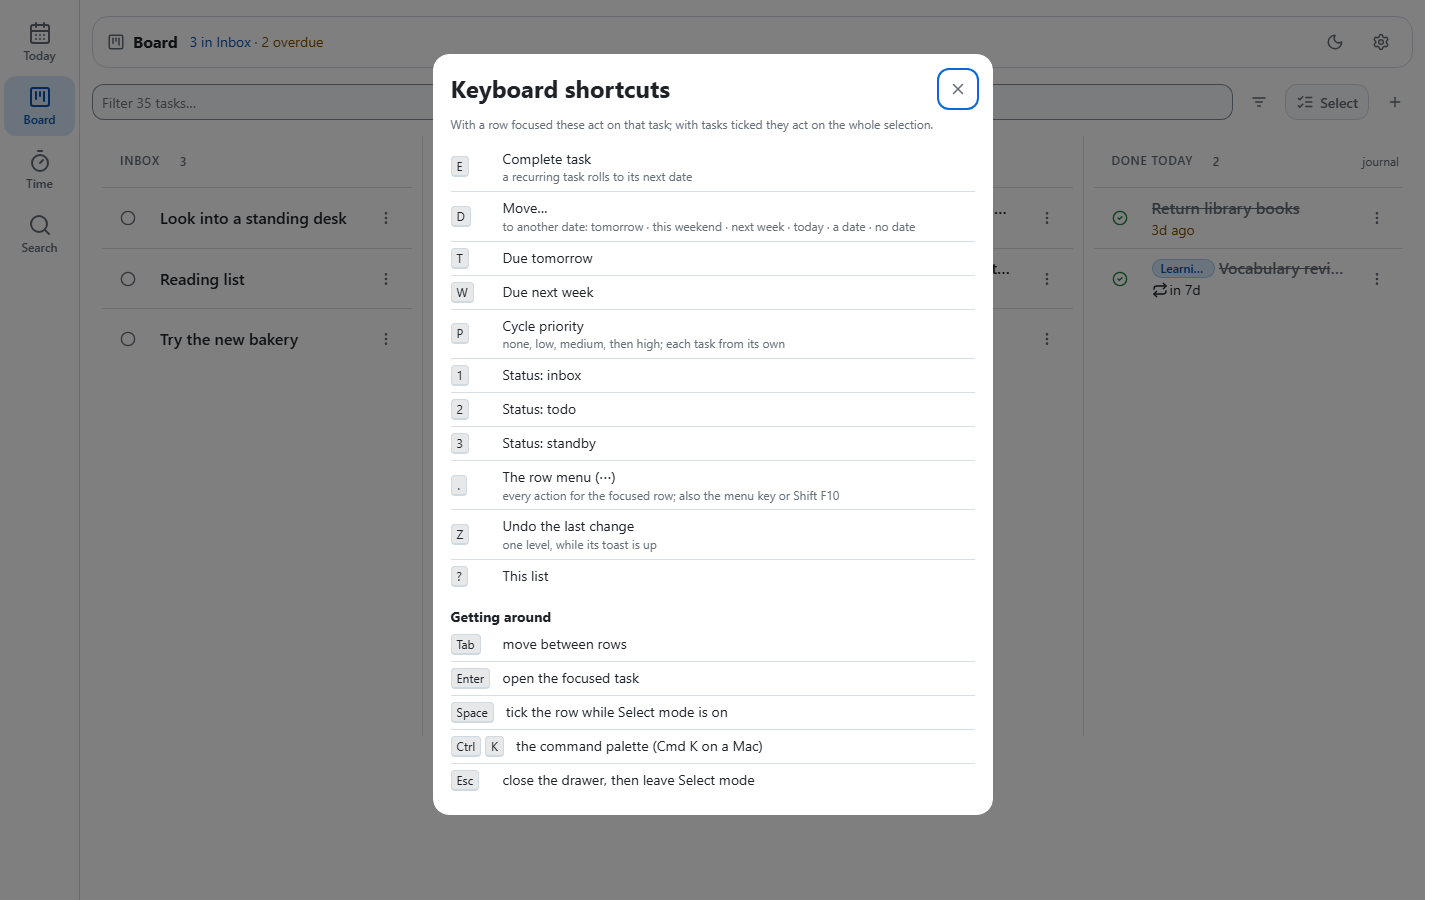
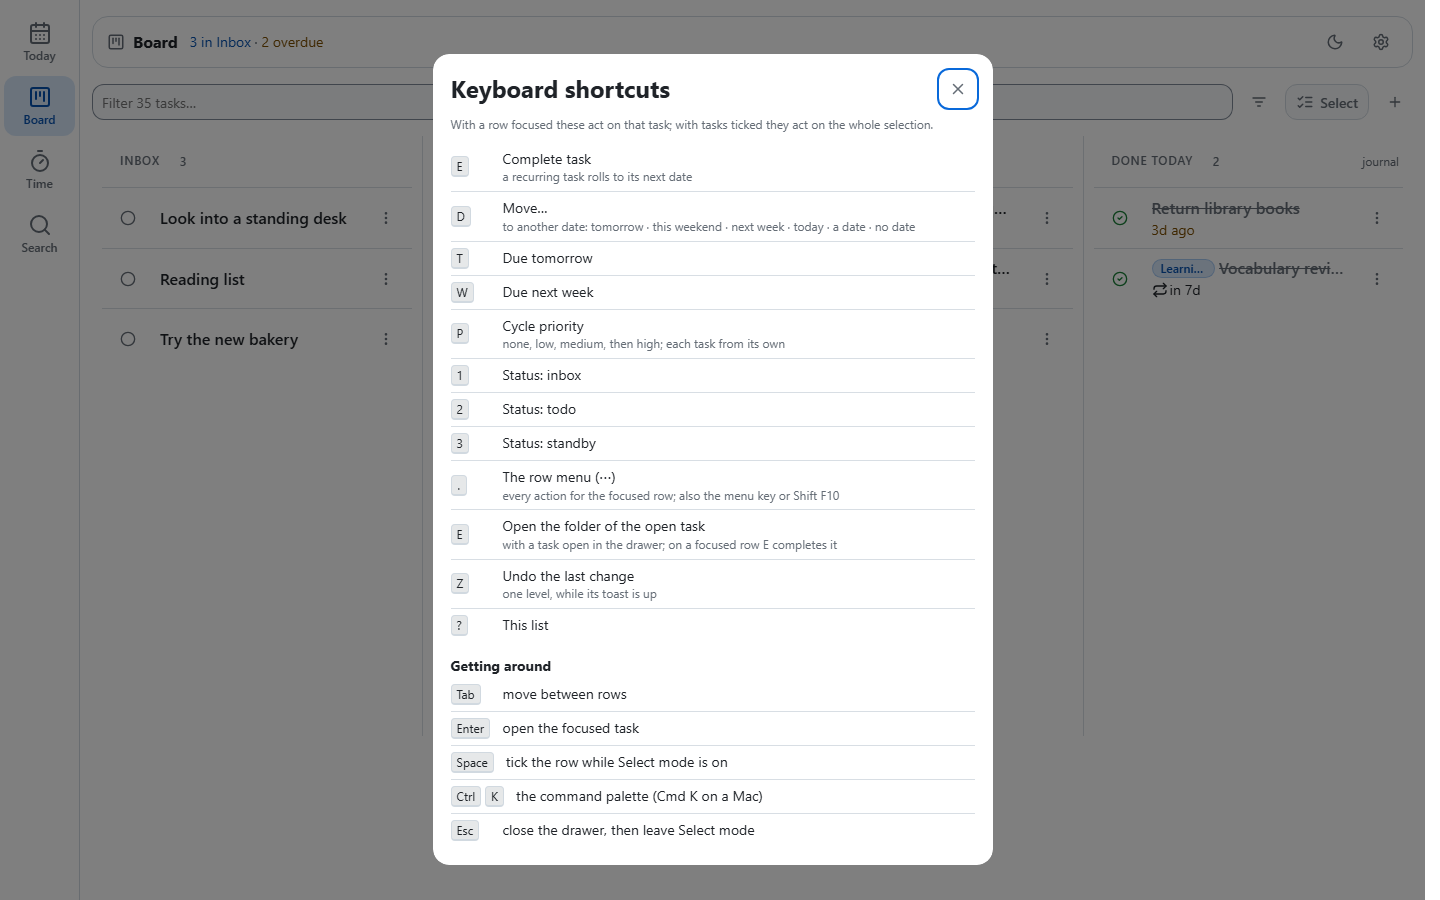
feat: e opens the folder of the task open in the drawer (#776)
- the drawer owns the row keys, so e was unbound there; it now follows the drawer's folder chip, the key folder-explorer uses for the same thing
- a text field still types the letter; the palette command and the shortcuts sheet list the key

Part of #766

Changed region(s): [[0.2812, 0.56, 0.6875, 0.9644]]

diff --git a/app/webapp/static/keys.js b/app/webapp/static/keys.js
@@ -6,6 +6,9 @@
  *   e  complete   1-3 status   t/w due tomorrow / next week
  *   d  move       p   priority cycle          z undo     ? this list
  *
+ * and, with a task open in the drawer (which owns the row keys), `e` opens
+ * that task's folder — the key folder-explorer uses for the same thing.
+ *
  * and with tasks ticked (Select mode) the same key does it to the whole
  * selection.
  *
@@ -148,6 +151,7 @@ function buildHelp(helpDialog) {
   acts.className = 'keys-rows';
   ACTIONS.forEach(function (a) { if (a.kbd) acts.appendChild(keyRow(a.kbd, a.label, a.hint)); });
   acts.appendChild(keyRow('.', 'The row menu (⋯)', 'every action for the focused row; also the menu key or Shift F10'));
+  acts.appendChild(keyRow('E', 'Open the folder of the open task', 'with a task open in the drawer; on a focused row E completes it'));
   acts.appendChild(keyRow('Z', 'Undo the last change', 'one level, while its toast is up'));
   acts.appendChild(keyRow('?', 'This list', null));
   card.appendChild(acts);
@@ -219,9 +223,11 @@ function keyCommands(tgt, actions, perform, runUndo, openHelp) {
  * @param {HTMLDialogElement} helpDialog   the (empty) shortcuts sheet shell
  * @param {{actions: ReturnType<import('./actions.js').createActions>,
  *          resolveTask: (id:number) => Promise<object|null>,
- *          isBlocked: () => boolean}} handlers
+ *          isBlocked: () => boolean,
+ *          openFolder: () => void}} handlers
  *        `actions` is the app's one runner (actions.js); `isBlocked` is true
- *        while something else owns the keyboard (the drawer).
+ *        while something else owns the keyboard (the drawer); `openFolder`
+ *        opens the folder of the task open in the drawer (the `e` key there).
  * @returns {{commands: () => Array<object>, openHelp: () => void}}
  */
 export function mountKeys(helpDialog, handlers) {
@@ -299,7 +305,10 @@ export function mountKeys(helpDialog, handlers) {
     if (ev.target.closest && ev.target.closest(OWNS_ITS_KEYS)) return;
     if (helpDialog.open) return;
     if (document.querySelector('dialog[open]')) return;   // the palette, quick-add
-    if (handlers.isBlocked()) return;                     // the drawer owns the keys
+    if (handlers.isBlocked()) {                           // the drawer owns the keys
+      if (ev.key === 'e' || ev.key === 'E') { ev.preventDefault(); handlers.openFolder(); }
+      return;
+    }
     if (ev.key === '?') { ev.preventDefault(); openHelp(); return; }
     if (ev.key === 'z' || ev.key === 'Z') { ev.preventDefault(); runUndo(); return; }
     if (ev.key === '.') { openRowMenu(ev); return; }

diff --git a/app/webapp/static/js/app/commands.js b/app/webapp/static/js/app/commands.js
@@ -77,7 +77,7 @@ export function paletteCommands(app) {
     try { const r = await api('/api/mirror/export', { method: 'POST', body: {} }); toast('Mirror: ' + r.written + ' written, ' + r.removed + ' removed', 'success'); }
     catch (err) { toast(err.message || 'Export failed', 'error'); }
   } });
-  cmds.push({ id: 'open-folder', label: 'Open folder of current task', hint: app.drawer.currentId() != null ? 'task #' + app.drawer.currentId() : 'no task open', icon: 'folder', run: app.openFolderOfCurrentTask });
+  cmds.push({ id: 'open-folder', label: 'Open folder of current task', hint: app.drawer.currentId() != null ? 'task #' + app.drawer.currentId() : 'no task open', icon: 'folder', kbd: 'E', run: app.openFolderOfCurrentTask });
   cmds.push({ id: 'toggle-theme', label: 'Toggle theme', hint: document.documentElement.dataset.theme === 'dark' ? 'to light' : 'to dark', icon: 'sun', run: function () { app.els.themeToggle.click(); } });
   cmds.push({ id: 'sign-out', label: 'Sign out', hint: 'this device (token cookie)', icon: 'x', run: async function () {
     try { await api('/api/logout', { method: 'POST', body: {} }); } catch (err) { toast(err.message, 'error'); return; }

diff --git a/app/webapp/static/app.js b/app/webapp/static/app.js
@@ -742,6 +742,7 @@ function wireKeys() {
   keys = mountKeys(els.keysHelp, {
     actions: actions,
     resolveTask: app.resolveTask,
+    openFolder: function () { app.openFolderOfCurrentTask(); },
     // A task you opened owns the keys. The one desktop Today opened by
     // itself does not, unless the focus is in it: else the keymap would be off
     // on the landing tab from the first paint.

diff --git a/tests/e2e/_drawer_key_steps.py b/tests/e2e/_drawer_key_steps.py
@@ -1,0 +1,58 @@
+"""The drawer's `e` key (opens the task's folder), walked inside story 04's one test.
+
+Kept beside it rather than in it: the story file is at its size cap.
+"""
+
+from __future__ import annotations
+
+from playwright.sync_api import Page, expect
+
+from tests.e2e.conftest import _get
+
+# A click on the folder chip is observed and cancelled before the browser follows
+# its `taskos://` link, so no File Explorer window opens during the test.
+_RECORD_FOLDER_OPENS = """
+window.__folderOpens = [];
+document.addEventListener('click', function (ev) {
+  const a = ev.target.closest && ev.target.closest('a.chip-folder');
+  if (!a) return;
+  window.__folderOpens.push(a.getAttribute('href'));
+  ev.preventDefault();
+}, true);
+"""
+
+
+def walk_drawer_e_opens_folder(page: Page, base: str) -> None:
+    """`e` with a task open in the drawer opens its folder; typed in a field it is a letter."""
+    kitchen_id = next(int(t["id"]) for t in _get(base, "/api/tasks?q=Kitchen")["items"] if t["title"] == "Kitchen")
+    page.goto(f"{base}/#task/{kitchen_id}")
+    drawer = page.locator("#taskDrawer")
+    expect(drawer.locator("#drawerTitle")).to_have_value("Kitchen")
+    expect(drawer.locator(".drawer-folder a.chip-folder")).to_be_visible()
+    page.evaluate(_RECORD_FOLDER_OPENS)
+
+    # typing in a field types the letter and opens nothing
+    comment = drawer.locator(".comment-input")
+    comment.click()
+    page.keyboard.press("e")
+    expect(comment).to_have_value("e")
+    assert page.evaluate("window.__folderOpens") == []
+    comment.fill("")
+
+    # focus on the drawer itself (not a field): `e` follows the folder chip's opener link
+    drawer.locator(".drawer-close").focus()
+    page.keyboard.press("e")
+    page.wait_for_function("window.__folderOpens.length === 1")
+    assert page.evaluate("window.__folderOpens")[0].startswith("taskos://open?ref=")
+
+    # the key is discoverable: the palette's command carries it, and the sheet lists it
+    page.keyboard.press("Control+k")
+    palette = page.locator("#palette")
+    palette.locator("input").fill("open folder")
+    expect(palette.locator("li", has_text="Open folder of current task").locator("kbd")).to_have_text("E")
+    page.keyboard.press("Escape")
+    drawer.locator(".drawer-close").click()
+    page.locator("body").press("?")
+    expect(page.locator("#keysHelp")).to_contain_text("Open the folder of the open task")
+    page.keyboard.press("Escape")
+    expect(page.locator("#keysHelp")).to_be_hidden()

diff --git a/tests/e2e/_board_walks.py b/tests/e2e/_board_walks.py
@@ -177,9 +177,9 @@ def _keys_set_search_and_help(page: Page, base: str, shots: Path, rid: int) -> N
     #     palette lists the same keys, which is where they are discovered.
     page.keyboard.press("?")
     expect(page.locator("#keysHelp")).to_be_visible()
-    # 8 keyed actions + the row menu's . + Z + ?, then the five "getting around"
+    # 8 keyed actions + the row menu's . + the drawer's E + Z + ?, then the five "getting around"
     # keys; the keyless actions (reopen, cancelled) live in the row menu (#311)
-    expect(page.locator("#keysHelp .keys-rows").first.locator(".keys-row")).to_have_count(11)
+    expect(page.locator("#keysHelp .keys-rows").first.locator(".keys-row")).to_have_count(12)
     expect(page.locator("#keysHelp .keys-rows").first).to_contain_text("Complete task")
     expect(page.locator("#keysHelp")).to_contain_text("Getting around")
     scroll_to_top(page, BOARD_COLUMNS)

diff --git a/tests/e2e/test_story_04_triage.py b/tests/e2e/test_story_04_triage.py
@@ -71,6 +71,7 @@ from urllib.parse import parse_qs, urlsplit
 import pytest
 from playwright.sync_api import Browser, Page, Playwright, expect
 
+from tests.e2e._drawer_key_steps import walk_drawer_e_opens_folder
 from tests.e2e._geometry import (
     assert_min_target,
     assert_no_horizontal_overflow,
@@ -157,6 +158,9 @@ def test_desktop_triage(seeded_webapp: str, browser: Browser, playwright: Playwr
 
         # ------------------------------ one task load per hash open (#236) ----
         _walk_hash_open_loads_once(page, base)
+
+        # ---------------------------------- `e` opens the folder (#766) ----
+        walk_drawer_e_opens_folder(page, base)
 
         # -------------------------------------- today split view (#336) ----
         _walk_today_split(page, base, shots)

diff --git a/docs/validation/story-04-triage.md b/docs/validation/story-04-triage.md
@@ -52,3 +52,5 @@
 **2026-10-18 (#468):** the drawer head's parent tools replace the More-fields *Move to* select. Step 7 now runs through **Change parent** (the picker sheet, filtered to *family*, shot 12 — the task itself is not on the list) → *Family admin*; **Remove parent** (one tap, toast *to the top level*, breadcrumb back to *top level*, the button gone) → Change parent again, filter, Enter on the first match → *Family admin* once more; the picker never lists *Kitchen* for *Home renovation* (its own child), and a cycle that appears while the picker is open (*Kitchen* filed away, offered, filed back under *Home renovation* by an API call, then picked) is refused with the `cycle` toast and nothing changes. Unit: `tests/test_api.py::test_move_makes_a_leaf_a_project_and_null_takes_it_back` (a leaf becomes a project, and back); it pins server behaviour that already held, so it was green before the UI change by design. The drawer shots are re-baselined (the head gained a line). Result: **verified** (e2e desktop). Real phone: owner's check.
 
 **2026-10-19 (#486):** a snooze never strands a task, and the parent tools join the breadcrumb's line. `update_task` moves `due` to the new `starts` day when the start would otherwise pass it (a request that names `due` itself, a later due and an undated task are untouched), so the Board, Today, keys, bulk bar, CLI and drawer share one rule; the toast says *due moved too* and Undo restores both fields. Unit: `tests/tasks/test_repo_records.py::test_snoozing_a_task_due_today_moves_its_due_with_it` and `test_snooze_rule_covers_update_bulk_and_respects_an_explicit_due` — both **red before the fix** (due stayed on the day the task fell asleep), green after; `tests/test_row_actions.py` pins the two-field undo. E2e: step 4 of the snooze walk (story 13's rider in this file) asserts the due moved, the toast, and that Undo puts `starts` and `due` back; step 7 and the phone drawer walk (story 07) assert Change parent / Remove parent sit on the crumbs' line (the helper `assert_on_crumb_line`, **red against the old drawer**) at 44px, and on the phone wrap cleanly under the trail. Gallery: 63 drawer-bearing shots re-baselined (all differences inside the drawer panel / sheet). Result: **verified** (e2e desktop + phone, gate green). Dark theme: the controls reuse existing theme tokens; not separately walked on screen. Real phone: owner's check.
+
+**2026-11-18 (#766):** `e` with a task open in the drawer opens that task's folder, the key folder-explorer uses for the same thing. The drawer owns the row keys, so `e` there was unbound (on a focused row it still completes); the new binding follows the drawer's own folder chip, so the no-folder toast and the one-time opener hint are unchanged. The e2e rider (`walk_drawer_e_opens_folder` in `tests/e2e/_drawer_key_steps.py`, run by this file's one test) opens the seeded Kitchen task, types `e` into the comment field (a letter, nothing opened), then presses `e` with focus on the drawer and sees exactly one opener link followed; the click is cancelled before the browser navigates, so no Explorer window opens during the run. It also asserts the palette's open-folder command carries `E` and the shortcuts sheet lists it. The rider is **red before the change** (no opener click), green after. Result: **verified** (e2e desktop). Not verified: the real File Explorer window on a PC through the installed opener — the owner's check.

diff --git a/docs/task-workflow.md b/docs/task-workflow.md
@@ -77,7 +77,7 @@ Every row action is one key, so a triage pass is keys instead of mouse trips. `T
 | `Z` | undo the last change |
 | `?` | the shortcuts sheet |
 
-With tasks ticked ([Select several tasks at once](views.md#views)) the same key applies to the set, and the ticks stay — keys come in runs (a status, then a due date, then a priority) over one picked set. The keys are inert wherever text is being typed and while the drawer, the palette or the quick-add dialog is open.
+With tasks ticked ([Select several tasks at once](views.md#views)) the same key applies to the set, and the ticks stay — keys come in runs (a status, then a due date, then a priority) over one picked set. The keys are inert wherever text is being typed and while the drawer, the palette or the quick-add dialog is open. The one exception is `E` with a task open in the drawer: there it opens that task's folder, the key folder-explorer uses for the same thing (a task with no folder says so in a toast).
 
 **Undo** is a real write, not a client-side rollback: the inverse goes back through the API, so the reversal gets its own `new → old` activity row and survives a reload. It is single-level and lives exactly as long as its toast — over a selection it puts each task's own prior value back, one call per group of tasks that shared one. Completing a recurring task undoes to the *pre-roll* due date.
 

diff --git a/docs/ux-surface-map.md b/docs/ux-surface-map.md
@@ -48,6 +48,7 @@ The 1024px breakpoint (side panel, split, a list scrolling inside its own box) i
 | `t` `w` | due tomorrow, due next week |
 | `d` | the date sheet (Move…) |
 | `p` | cycles priority |
+| `e` with a task open in the drawer | opens that task's folder (the same key folder-explorer uses); in a text field it types the letter |
 | `z` | undo the last row action |
 | `.` or the menu key | the row menu |
 | `?` | the shortcuts sheet |
